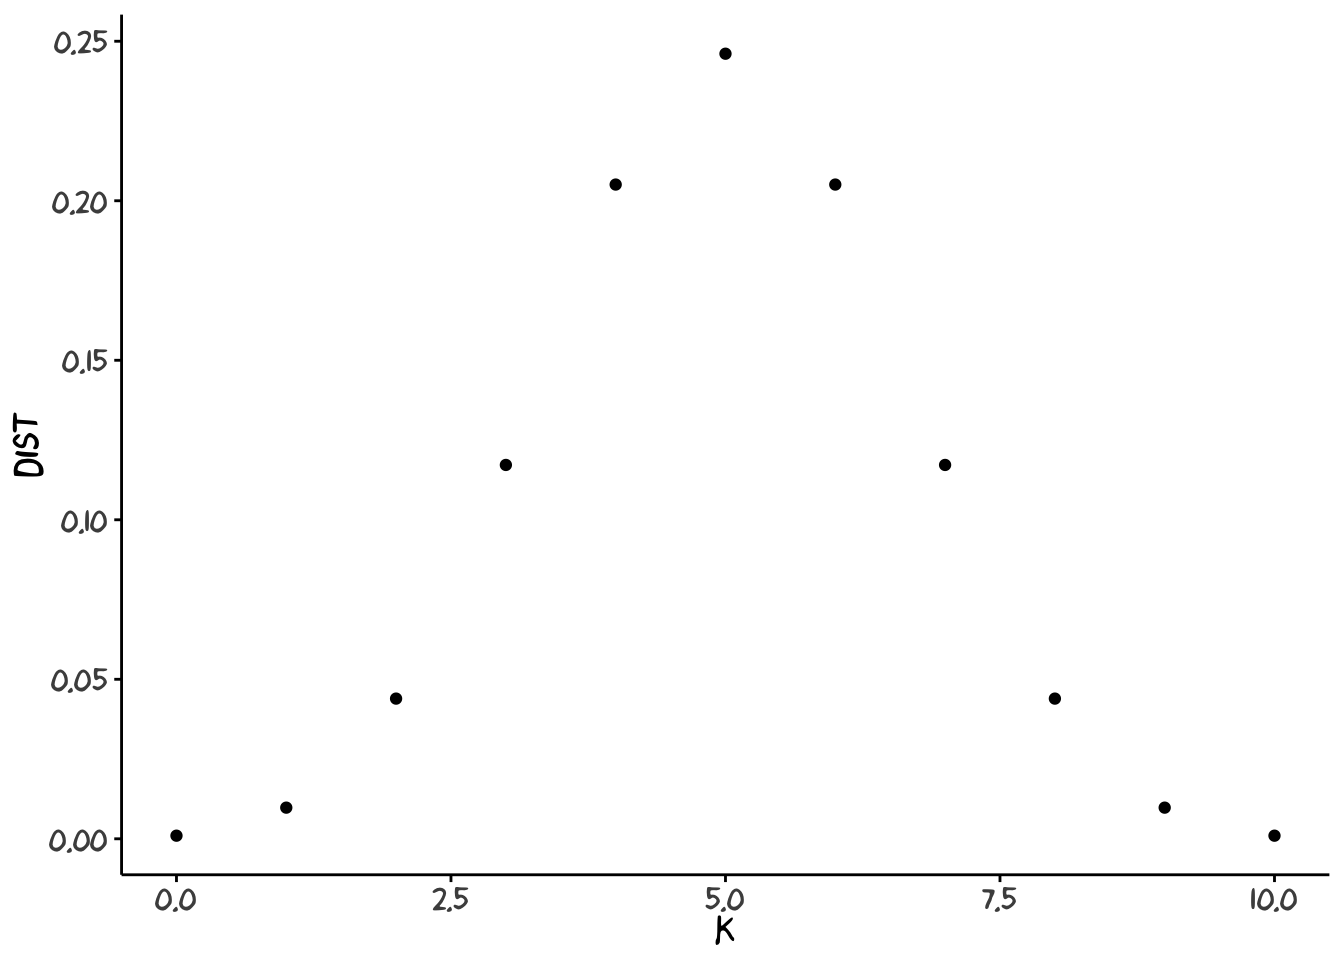
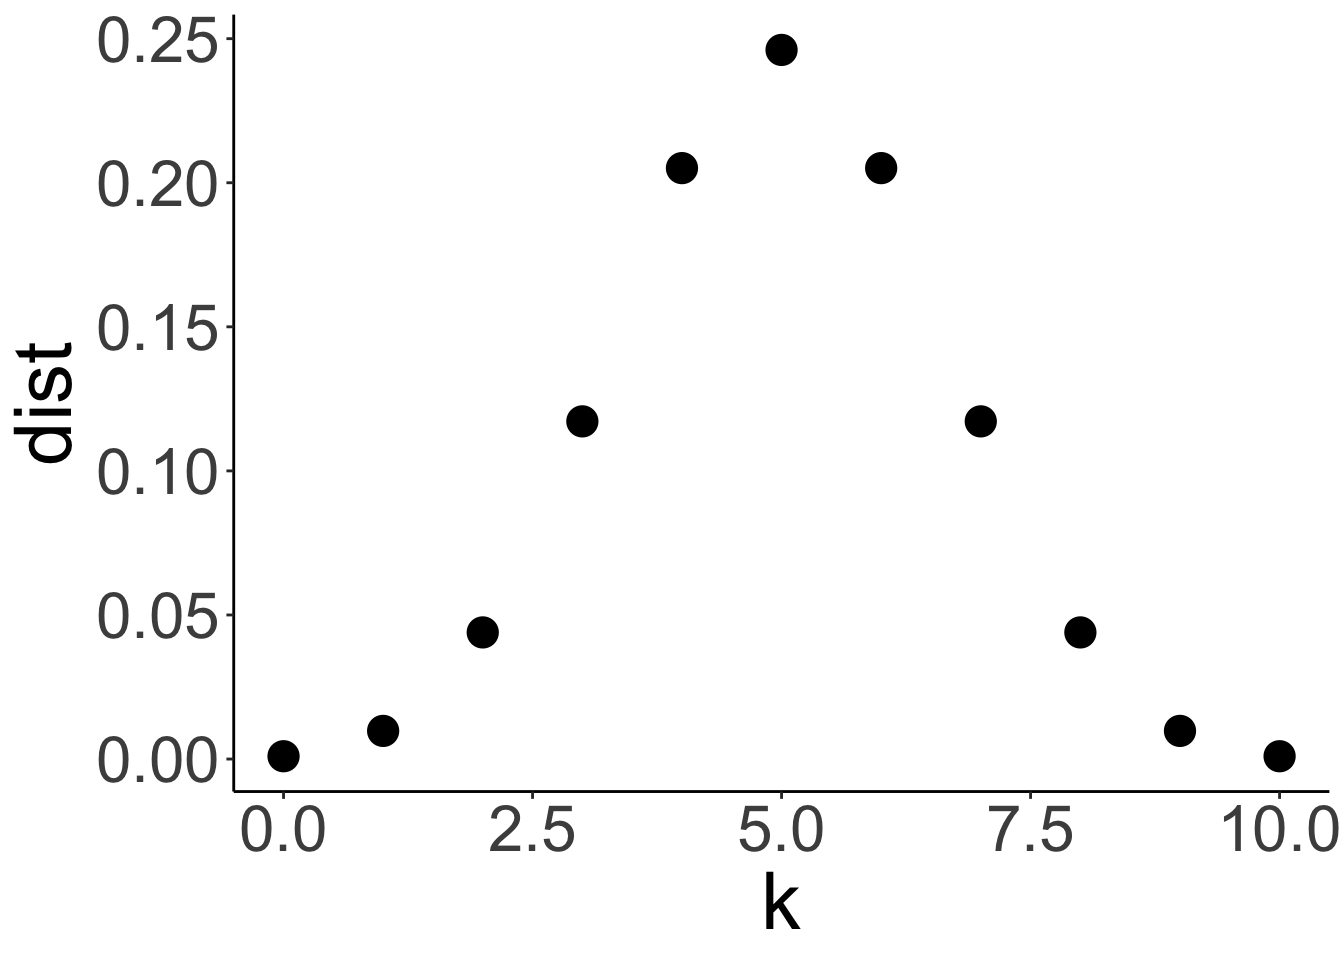
added XKCD stickman

diff --git a/docs/2020/10/05/binomial-distribution/index.html b/docs/2020/10/05/binomial-distribution/index.html
@@ -79,11 +79,10 @@
       
 
 
-<p>We introduce the binomial distribution with a simple example: imagine you have a coin with two sides: Heads and Tails. We don’t know if the coin is fair, but we can try to do an experiment to see if it s fair. We flip it many times and if it is a fair coin, we should see the same number of Heads and Tails. Let’s say we have flipped it 10 times and got the following sequence: s = {H,T,T,T,H,H,T,H,T,T}. What is the probability for this particular outcome if it is a fair coin? Since all coin tosses are independent, we get:</p>
+<p>We introduce the binomial distribution with a simple example: imagine you have a coin with two sides: Heads and Tails. We don't know if the coin is fair, but we can try to do an experiment to see if it s fair. We flip it many times and if it is a fair coin, we should see the same number of Heads and Tails. Let's say we have flipped it 10 times and got the following sequence: s = {H,T,T,T,H,H,T,H,T,T}. What is the probability for this particular outcome if it is a fair coin? Since all coin tosses are independent, we get:</p>
 <p><span class="math display">\[
 P(Sequence = s) = (1/2)^{10}. 
-\]</span>
-W observe that each outcome would be equally likely, because the probability for Heads or Tails are the same: <span class="math inline">\(1/2\)</span>. Clearly this is not very helpful. So let us try something else: we count the number of Heads (calling it a success - the choice that Heads is a success is arbitrary and doesn’t matter). In our example the number of heads is</p>
+\]</span> W observe that each outcome would be equally likely, because the probability for Heads or Tails are the same: <span class="math inline">\(1/2\)</span>. Clearly this is not very helpful. So let us try something else: we count the number of Heads (calling it a success - the choice that Heads is a success is arbitrary and doesn't matter). In our example the number of heads is</p>
 <p><span class="math display">\[H = 4.\]</span></p>
 <p>What is the probability for observing 4 Heads in 10 coin flips? This must be something different than the probability calculated above for one specific sequence, because there are many ways to get 4 Heads. For instance {H,H,H,H,T,T,T,T,T,T} has 4 heads, and so does {H,T,H,T,H,T,H,T,T,T}. Both of these outcomes are equally likely and both of them yield 4 heads.</p>
 <p>A next question that naturally arises is whether the probabilities for H = 0, H = 1, etc. are different from each other. Intuitvely one would think so. Let us try to calculate this:</p>
@@ -95,44 +94,39 @@ W observe that each outcome would be equally likely, because the probability for
 <ul>
 <li>H = 1</li>
 </ul>
-<p>For H = 1, there are 10 possible sequences; the first coin toss is H but all other T, or the second one is H and all other T, or the third one H and all other T, and so on. Thus the probability for H = 1 is
-<span class="math display">\[P(H = 1) = 10*(1/2)^{10},\]</span>
-because these sequences correspond to disjoint events and we can simply add them up.</p>
+<p>For H = 1, there are 10 possible sequences; the first coin toss is H but all other T, or the second one is H and all other T, or the third one H and all other T, and so on. Thus the probability for H = 1 is <span class="math display">\[P(H = 1) = 10*(1/2)^{10},\]</span> because these sequences correspond to disjoint events and we can simply add them up.</p>
 <ul>
-<li>H = k, where k = 0, …, n</li>
+<li>H = k, where k = 0, ..., n</li>
 </ul>
 <p>From now on it gets more complex and we do not need to go through all cases separately. Instead we use a result from combinatorics to solve the general case. We need to calculate the number of ways how we can choose k elements out of n, where k is the number of H tosses and n is the total number of tosses. This is given by the so called binomial coefficient:</p>
-<p><span class="math display">\[{n\choose k} = \frac{n!}{k!(n-k)!}, \]</span> with
-<span class="math display">\[n! = 1*2*3*...*(n-1)*n.\]</span></p>
+<p><span class="math display">\[{n\choose k} = \frac{n!}{k!(n-k)!}, \]</span> with <span class="math display">\[n! = 1*2*3*...*(n-1)*n.\]</span></p>
 <p>If we now out all this together, we have derived the binomial distribution for the case of <span class="math inline">\(\pi = 1/2\)</span>:</p>
 <p><span class="math display">\[
 P( H = k) = {n\choose k} (1/2)^n
 \]</span></p>
 <p>The last step is to consider the general case where <span class="math inline">\(0 &lt; \pi &lt; 1\)</span>, so that the probability for a success is equal to <span class="math inline">\(\pi\)</span>. Then the probability for any sequence with k successes and n-k failures is:</p>
 <p><span class="math display">\[\pi^k (1-\pi)^{n-k}\]</span></p>
-<p>and since there are <span class="math inline">\({n\choose k}\)</span> such sequences the probability for k successes among n trials is:
-<span class="math display">\[P(H = k) = {n\choose k} \pi^k (1-\pi)^{n-k}\]</span></p>
-<p>In R we can get this distribution very easily in the following way:</p>
+<p>and since there are <span class="math inline">\({n\choose k}\)</span> such sequences the probability for k successes among n trials is: <span class="math display">\[P(H = k) = {n\choose k} \pi^k (1-\pi)^{n-k}\]</span></p>
+<p>In R we can get this distribution very easily in the following way (output not shown, copy and paste for trying it).</p>
 <pre class="r"><code>library(ggplot2)
 library(xkcd)</code></pre>
 <pre><code>## Loading required package: extrafont</code></pre>
 <pre><code>## Registering fonts with R</code></pre>
 <pre class="r"><code># plot the distribution
 
-pi = 0.5
+prob = 0.5
 n = 10
 k = 0:10
 
-bin.dist = dbinom(k,n,pi)
+bin.dist = dbinom(k,n,prob)
 
 dat = data.frame(k = k,dist = bin.dist)
 
 ggplot(dat,aes(x = k,y= dist)) + 
-  geom_point() +
+  geom_point(size=5)+  
   theme_classic() + 
-  theme(text = element_text(size = 20))  + 
-  theme_xkcd() </code></pre>
-<p><img src="/ABS1/post/2020-10-05-binomial-distribution_files/figure-html/unnamed-chunk-1-1.png" width="80%" style="display: block; margin: auto;" /></p>
+  theme(text = element_text(size = 30)) </code></pre>
+<p>And here is a nice version of the plot (all done in R, message me for code): <img src="/ABS1/post/2020-10-05-binomial-distribution_files/figure-html/unnamed-chunk-2-1.png" width="80%" style="display: block; margin: auto;" /> ```</p>
 <p>If we want to draw a random sample from a distribution, we can also do this in R:</p>
 <pre class="r"><code>pi = 0.5
 n = 10
@@ -140,7 +134,7 @@ n = 10
 
 random.sample = rbinom(1,n,pi)
 print(random.sample)</code></pre>
-<pre><code>## [1] 7</code></pre>
+<pre><code>## [1] 4</code></pre>
 
     </div>
   </article>

diff --git a/content/post/2020-10-05-binomial-distribution.html b/content/post/2020-10-05-binomial-distribution.html
@@ -11,11 +11,10 @@ tags:
 
 
 
-<p>We introduce the binomial distribution with a simple example: imagine you have a coin with two sides: Heads and Tails. We don’t know if the coin is fair, but we can try to do an experiment to see if it s fair. We flip it many times and if it is a fair coin, we should see the same number of Heads and Tails. Let’s say we have flipped it 10 times and got the following sequence: s = {H,T,T,T,H,H,T,H,T,T}. What is the probability for this particular outcome if it is a fair coin? Since all coin tosses are independent, we get:</p>
+<p>We introduce the binomial distribution with a simple example: imagine you have a coin with two sides: Heads and Tails. We don't know if the coin is fair, but we can try to do an experiment to see if it s fair. We flip it many times and if it is a fair coin, we should see the same number of Heads and Tails. Let's say we have flipped it 10 times and got the following sequence: s = {H,T,T,T,H,H,T,H,T,T}. What is the probability for this particular outcome if it is a fair coin? Since all coin tosses are independent, we get:</p>
 <p><span class="math display">\[
 P(Sequence = s) = (1/2)^{10}. 
-\]</span>
-W observe that each outcome would be equally likely, because the probability for Heads or Tails are the same: <span class="math inline">\(1/2\)</span>. Clearly this is not very helpful. So let us try something else: we count the number of Heads (calling it a success - the choice that Heads is a success is arbitrary and doesn’t matter). In our example the number of heads is</p>
+\]</span> W observe that each outcome would be equally likely, because the probability for Heads or Tails are the same: <span class="math inline">\(1/2\)</span>. Clearly this is not very helpful. So let us try something else: we count the number of Heads (calling it a success - the choice that Heads is a success is arbitrary and doesn't matter). In our example the number of heads is</p>
 <p><span class="math display">\[H = 4.\]</span></p>
 <p>What is the probability for observing 4 Heads in 10 coin flips? This must be something different than the probability calculated above for one specific sequence, because there are many ways to get 4 Heads. For instance {H,H,H,H,T,T,T,T,T,T} has 4 heads, and so does {H,T,H,T,H,T,H,T,T,T}. Both of these outcomes are equally likely and both of them yield 4 heads.</p>
 <p>A next question that naturally arises is whether the probabilities for H = 0, H = 1, etc. are different from each other. Intuitvely one would think so. Let us try to calculate this:</p>
@@ -27,44 +26,39 @@ W observe that each outcome would be equally likely, because the probability for
 <ul>
 <li>H = 1</li>
 </ul>
-<p>For H = 1, there are 10 possible sequences; the first coin toss is H but all other T, or the second one is H and all other T, or the third one H and all other T, and so on. Thus the probability for H = 1 is
-<span class="math display">\[P(H = 1) = 10*(1/2)^{10},\]</span>
-because these sequences correspond to disjoint events and we can simply add them up.</p>
+<p>For H = 1, there are 10 possible sequences; the first coin toss is H but all other T, or the second one is H and all other T, or the third one H and all other T, and so on. Thus the probability for H = 1 is <span class="math display">\[P(H = 1) = 10*(1/2)^{10},\]</span> because these sequences correspond to disjoint events and we can simply add them up.</p>
 <ul>
-<li>H = k, where k = 0, …, n</li>
+<li>H = k, where k = 0, ..., n</li>
 </ul>
 <p>From now on it gets more complex and we do not need to go through all cases separately. Instead we use a result from combinatorics to solve the general case. We need to calculate the number of ways how we can choose k elements out of n, where k is the number of H tosses and n is the total number of tosses. This is given by the so called binomial coefficient:</p>
-<p><span class="math display">\[{n\choose k} = \frac{n!}{k!(n-k)!}, \]</span> with
-<span class="math display">\[n! = 1*2*3*...*(n-1)*n.\]</span></p>
+<p><span class="math display">\[{n\choose k} = \frac{n!}{k!(n-k)!}, \]</span> with <span class="math display">\[n! = 1*2*3*...*(n-1)*n.\]</span></p>
 <p>If we now out all this together, we have derived the binomial distribution for the case of <span class="math inline">\(\pi = 1/2\)</span>:</p>
 <p><span class="math display">\[
 P( H = k) = {n\choose k} (1/2)^n
 \]</span></p>
 <p>The last step is to consider the general case where <span class="math inline">\(0 &lt; \pi &lt; 1\)</span>, so that the probability for a success is equal to <span class="math inline">\(\pi\)</span>. Then the probability for any sequence with k successes and n-k failures is:</p>
 <p><span class="math display">\[\pi^k (1-\pi)^{n-k}\]</span></p>
-<p>and since there are <span class="math inline">\({n\choose k}\)</span> such sequences the probability for k successes among n trials is:
-<span class="math display">\[P(H = k) = {n\choose k} \pi^k (1-\pi)^{n-k}\]</span></p>
-<p>In R we can get this distribution very easily in the following way:</p>
+<p>and since there are <span class="math inline">\({n\choose k}\)</span> such sequences the probability for k successes among n trials is: <span class="math display">\[P(H = k) = {n\choose k} \pi^k (1-\pi)^{n-k}\]</span></p>
+<p>In R we can get this distribution very easily in the following way (output not shown, copy and paste for trying it).</p>
 <pre class="r"><code>library(ggplot2)
 library(xkcd)</code></pre>
 <pre><code>## Loading required package: extrafont</code></pre>
 <pre><code>## Registering fonts with R</code></pre>
 <pre class="r"><code># plot the distribution
 
-pi = 0.5
+prob = 0.5
 n = 10
 k = 0:10
 
-bin.dist = dbinom(k,n,pi)
+bin.dist = dbinom(k,n,prob)
 
 dat = data.frame(k = k,dist = bin.dist)
 
 ggplot(dat,aes(x = k,y= dist)) + 
-  geom_point() +
+  geom_point(size=5)+  
   theme_classic() + 
-  theme(text = element_text(size = 20))  + 
-  theme_xkcd() </code></pre>
-<p><img src="/ABS1/post/2020-10-05-binomial-distribution_files/figure-html/unnamed-chunk-1-1.png" width="80%" style="display: block; margin: auto;" /></p>
+  theme(text = element_text(size = 30)) </code></pre>
+<p>And here is a nice version of the plot (all done in R, message me for code): <img src="/ABS1/post/2020-10-05-binomial-distribution_files/figure-html/unnamed-chunk-2-1.png" width="80%" style="display: block; margin: auto;" /> ```</p>
 <p>If we want to draw a random sample from a distribution, we can also do this in R:</p>
 <pre class="r"><code>pi = 0.5
 n = 10
@@ -72,4 +66,4 @@ n = 10
 
 random.sample = rbinom(1,n,pi)
 print(random.sample)</code></pre>
-<pre><code>## [1] 7</code></pre>
+<pre><code>## [1] 4</code></pre>
